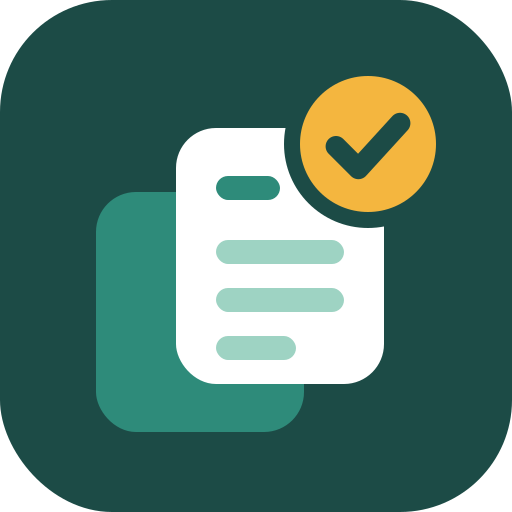
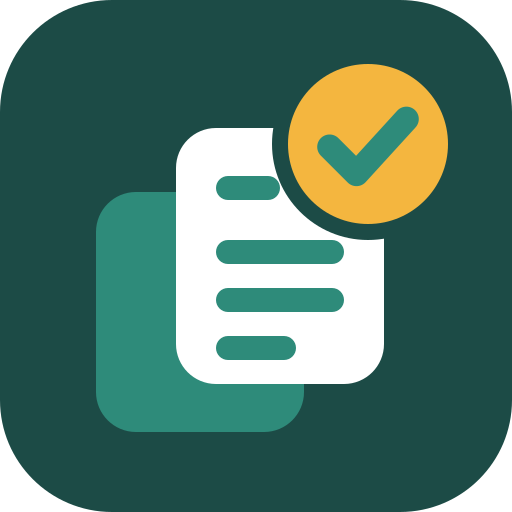
Apply the edited StudyStrides hub export.
Update course copy, About and Contact layout, logo files, and the contact form destination to support@studystrides.com.au. Leave the custom domain and SOR redirect in place.

diff --git a/contact/index.html b/contact/index.html
@@ -39,35 +39,40 @@
 <main class="page">
   <div class="wrap prose">
     <h1>Contact Us</h1>
-    <p>Send a message to the StudyStrides team. We reply by email.</p>
-    <div id="thanks" class="sent" hidden>
-      <p><strong>Message sent.</strong> Thank you. We will reply by email.</p>
+    <p>Send a message to the StudyStrides team.</p>
+    <div class="contact-box">
+      <img class="wm wm-sor" src="../assets/svg/sor-pattern.svg" alt="" aria-hidden="true" width="260" height="270">
+      <img class="wm wm-geo" src="../assets/svg/geo-pattern.svg" alt="" aria-hidden="true" width="260" height="270">
+      <div id="thanks" class="sent" hidden>
+        <p><strong>Message sent.</strong> Thank you. We will reply by email.</p>
+      </div>
+      <!--
+        Posts to support@studystrides.com.au via FormSubmit. No API key is stored.
+        The address will later be swapped for an alias (see README.md).
+        Before the first real delivery, the confirmation email FormSubmit sends
+        to that address must be opened.
+      -->
+      <form id="contact-form" class="form" action="https://formsubmit.co/support@studystrides.com.au" method="POST">
+        <input type="hidden" name="_subject" value="StudyStrides contact">
+        <input type="hidden" name="_template" value="table">
+        <input type="hidden" name="_captcha" value="false">
+        <input type="hidden" name="_next" value="https://hsc-prep.github.io/contact/?sent=1">
+        <p class="honey">
+          <label>Leave this field empty<input type="text" name="_honey" tabindex="-1" autocomplete="off"></label>
+        </p>
+        <label>Name
+          <input type="text" name="name" autocomplete="name" required maxlength="120">
+        </label>
+        <label>Email
+          <input type="email" name="email" autocomplete="email" required maxlength="200">
+        </label>
+        <label>Message
+          <textarea name="message" required maxlength="5000"></textarea>
+        </label>
+        <button class="button" type="submit">Send</button>
+        <p class="form-note">Your message is emailed to the StudyStrides team. We reply by email.</p>
+      </form>
     </div>
-    <!--
-      Posts to hsc.prep.site@gmail.com via FormSubmit. No API key is stored.
-      Before the first real delivery, Paul must open the confirmation email
-      FormSubmit sends to that address. See README.md.
-    -->
-    <form id="contact-form" class="form" action="https://formsubmit.co/hsc.prep.site@gmail.com" method="POST">
-      <input type="hidden" name="_subject" value="StudyStrides contact">
-      <input type="hidden" name="_template" value="table">
-      <input type="hidden" name="_captcha" value="false">
-      <input type="hidden" name="_next" value="https://hsc-prep.github.io/contact/?sent=1">
-      <p class="honey">
-        <label>Leave this field empty<input type="text" name="_honey" tabindex="-1" autocomplete="off"></label>
-      </p>
-      <label>Name
-        <input type="text" name="name" autocomplete="name" required maxlength="120">
-      </label>
-      <label>Email
-        <input type="email" name="email" autocomplete="email" required maxlength="200">
-      </label>
-      <label>Message
-        <textarea name="message" required maxlength="5000"></textarea>
-      </label>
-      <button class="button" type="submit">Send</button>
-      <p class="form-note">Your message is emailed to the StudyStrides team.</p>
-    </form>
   </div>
 </main>
 

diff --git a/assets/site.css b/assets/site.css
@@ -132,8 +132,8 @@ img { max-width: 100%; }
 
 .courses {
   background: var(--mist);
-  flex: 1 0 auto;
-  padding: 40px 22px 56px;
+  flex: 0 0 auto;
+  padding: 40px 22px 40px;
 }
 
 .courses-inner {
@@ -288,11 +288,55 @@ img { max-width: 100%; }
 
 .sent p { margin: 0; }
 
+.about-marks {
+  display: flex;
+  flex-wrap: wrap;
+  gap: 28px;
+  align-items: center;
+  margin: 36px 0 0;
+}
+
+.about-marks img {
+  display: block;
+  width: 104px;
+  height: auto;
+}
+
+.contact-box {
+  position: relative;
+  overflow: hidden;
+  max-width: 36rem;
+  margin-top: 8px;
+  padding: 20px 22px 22px;
+  background: var(--white);
+  border: 1px solid var(--line);
+  border-radius: 16px;
+}
+
+.contact-box > *:not(.wm) {
+  position: relative;
+  z-index: 1;
+}
+
+.contact-box .form { max-width: none; margin-top: 0; }
+
+.contact-box .wm {
+  position: absolute;
+  z-index: 0;
+  width: 260px;
+  height: auto;
+  opacity: 0.07;
+  pointer-events: none;
+}
+
+.contact-box .wm-sor { top: -56px; right: -70px; }
+.contact-box .wm-geo { bottom: -84px; left: -84px; }
+
 .site-footer {
   background: var(--night);
   color: var(--mist);
   border-top: 1px solid rgba(158, 211, 195, 0.28);
-  padding: 14px 0;
+  padding: 0;
   margin-top: auto;
 }
 
@@ -374,7 +418,7 @@ img { max-width: 100%; }
 .page-stub main a { color: var(--marigold); }
 
 @media (max-width: 800px) {
-  .courses { padding: 24px 16px 32px; }
+  .courses { padding: 24px 16px 24px; }
   .courses-inner {
     grid-template-columns: 1fr;
     width: min(560px, 100%);

diff --git a/about/index.html b/about/index.html
@@ -41,7 +41,11 @@
     <h1>About Us</h1>
     <p>StudyStrides has been carefully created and is managed by highly-experienced, passionate, and successful NSW teachers of Geography and Studies of Religion. They bring exceptional subject knowledge and a clear understanding of how the HSC works, so you can perform strongly.</p>
     <h2>How students make strides</h2>
-    <p>Your preparation with StudyStrides involves deep learning, strategy understanding, drill and practice. Our philosophy is that students learn the course so that ideas and detail stay with you. You then learn the strategy for effectively applying that knowledge in HSC responses. Drill and practice make the strategy reliable. Those steps become large strides toward academic success.</p>
+    <p>Your preparation with StudyStrides involves deep learning, strategy understanding, drill and practice. Our philosophy is that you as a student learn the course so that ideas and detail stay with you. You then learn the strategy for effectively applying that knowledge in HSC responses. Drill and practice make the strategy reliable. Those steps become large strides toward academic success.</p>
+    <div class="about-marks" aria-hidden="true">
+      <img src="../assets/svg/sor-pattern.svg" alt="" width="104" height="112">
+      <img src="../assets/svg/geo-pattern.svg" alt="" width="104" height="112">
+    </div>
   </div>
 </main>
 

diff --git a/index.html b/index.html
@@ -50,13 +50,13 @@
       <a class="button" href="sor/">Go to HSC SOR</a>
       <img class="card-pattern" src="assets/svg/sor-pattern.svg" alt="" width="168" height="174">
       <h2>StudyStrides · HSC SOR</h2>
-      <p>Expert-crafted learning and study resources for you to prepare strongly through the HSC SOR course: content notes, strategy, study aids, 500+ practice multis, other questions and more!</p>
+      <p>Expert-crafted learning and study resources for you to prepare strongly through the HSC SOR course: content notes, strategy, study aids, 500+ practice multis, other questions, full practice exams and more!</p>
     </article>
     <article class="card">
       <a class="button" href="geo/">Go to HSC Geography</a>
       <img class="card-pattern" src="assets/svg/geo-pattern.svg" alt="" width="168" height="174">
       <h2>StudyStrides · HSC Geography</h2>
-      <p>Expert-crafted learning and study resources for you to prepare strongly through the HSC Geography course: content notes, strategy, study aids, practice questions and more!</p>
+      <p>Expert-crafted learning and study resources for you to prepare strongly through the HSC Geography course: content notes, strategy, study aids, practice questions, full practice exams and more!</p>
     </article>
   </div>
 </main>

diff --git a/README.md b/README.md
@@ -11,16 +11,16 @@ Logo files live in `assets/`. Favicons sit in the site root.
 
 ## Contact form
 
-The contact form posts to [FormSubmit](https://formsubmit.co/hsc.prep.site@gmail.com) so messages are emailed to `hsc.prep.site@gmail.com`. No API key or other secret is stored in this repo.
+The contact form posts to [FormSubmit](https://formsubmit.co/support@studystrides.com.au) so messages are emailed to `support@studystrides.com.au`. No API key or other secret is stored in this repo.
 
 Paul needs to activate it once before messages arrive:
 
 1. Open the [contact page](https://hsc-prep.github.io/contact/) and send a test message (name, email, and a short note).
-2. Open the confirmation email FormSubmit sends to `hsc.prep.site@gmail.com` and confirm the address.
+2. Open the confirmation email FormSubmit sends to `support@studystrides.com.au` and confirm the address.
 3. After that, each submission is delivered to that inbox. The sender’s address is the Email field, so replies can go straight back.
 
 The form then returns the visitor to `https://hsc-prep.github.io/contact/?sent=1`, which shows a short thank-you line.
 
-Optional later: on FormSubmit’s confirmation page, turn on an email alias and replace `hsc.prep.site@gmail.com` in `contact/index.html` with that alias. The public page will stop showing the inbox address, and delivery stays the same.
+Optional later: on FormSubmit’s confirmation page, turn on an email alias and replace `support@studystrides.com.au` in `contact/index.html` with that alias. The public page will stop showing the inbox address, and delivery stays the same.
 
-To use Formspree instead, create a form at [formspree.io](https://formspree.io/) for `hsc.prep.site@gmail.com` and change the form `action` in `contact/index.html` to `https://formspree.io/f/yourFormId`. Put the form id in the page only after the form exists. Do not commit a Formspree secret key.
+To use Formspree instead, create a form at [formspree.io](https://formspree.io/) for `support@studystrides.com.au` and change the form `action` in `contact/index.html` to `https://formspree.io/f/yourFormId`. Put the form id in the page only after the form exists. Do not commit a Formspree secret key.
